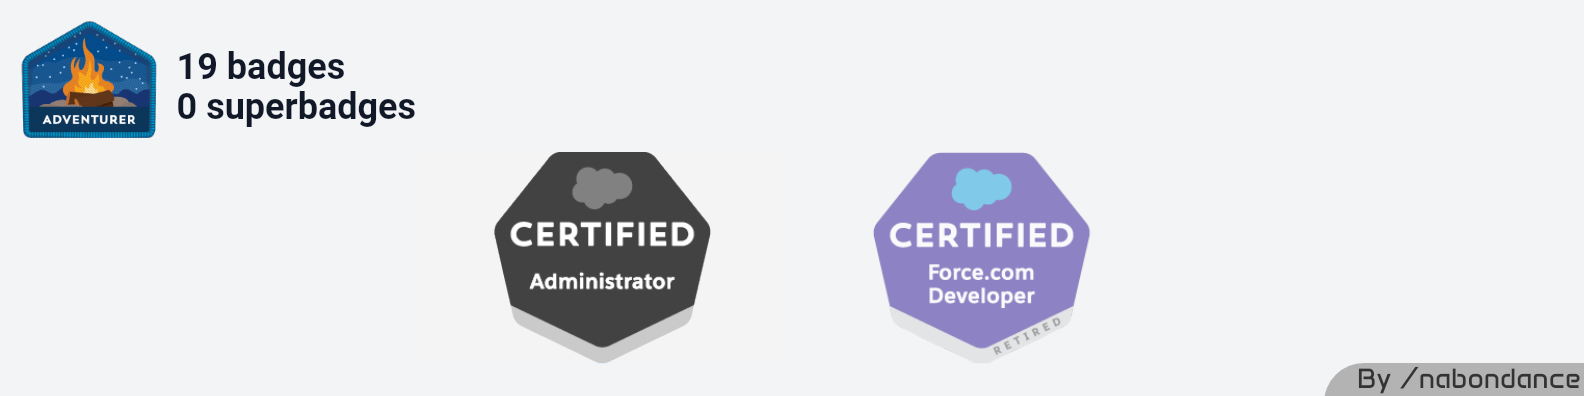
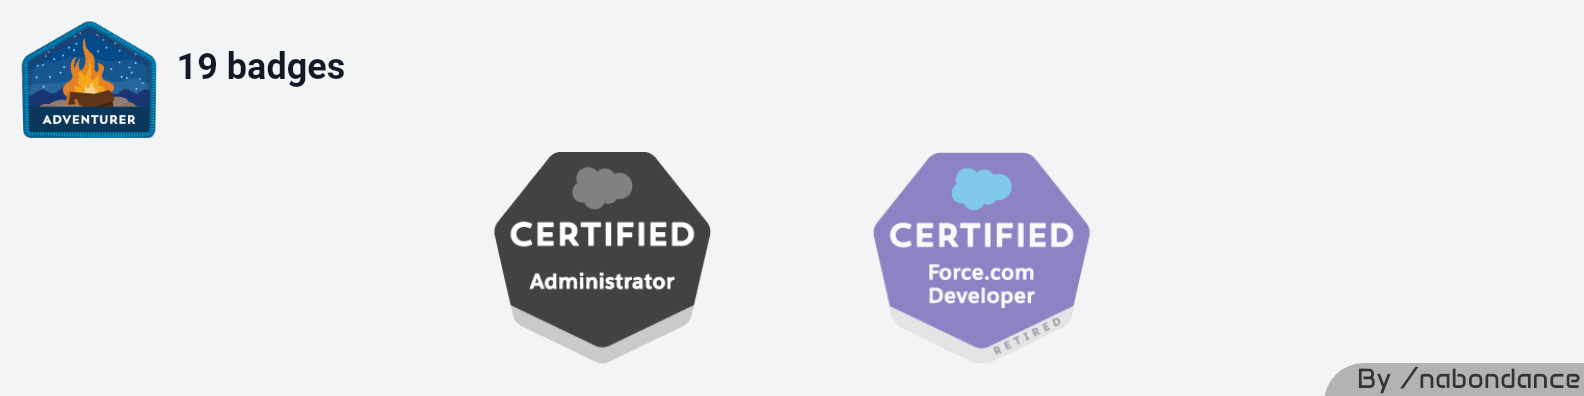
fix(generateImage): improve badge and superbadge text formatting

Changed region(s): [[0.0928, 0.2424, 0.2784, 0.3333]]

diff --git a/src/utils/generateImage.js b/src/utils/generateImage.js
@@ -69,12 +69,17 @@ export const generateImage = async (
 
   // Draw text
   try {
-    const text1 = `${rankData.earnedBadgesCount} badges`;
-    const text2 = `${badgesData.trailheadStats.superbadgeCount} superbadges`;
+    const badgeCount = rankData.earnedBadgesCount;
+    const superbadgeCount = badgesData.trailheadStats.superbadgeCount;
+
+    const text1 = `${badgeCount} badge${badgeCount !== 1 ? 's' : ''}`;
+    const text2 = superbadgeCount > 0 ? `${superbadgeCount} superbadge${superbadgeCount !== 1 ? 's' : ''}` : '';
 
     // Draw the text
     ctx.fillText(text1, rankLogoWidth + 40, 20 + rankLogoHeight / 2);
-    ctx.fillText(text2, rankLogoWidth + 40, 60 + rankLogoHeight / 2);
+    if (text2) {
+      ctx.fillText(text2, rankLogoWidth + 40, 60 + rankLogoHeight / 2);
+    }
   } catch (error) {
     console.error('Error drawing text:', error);
   }
